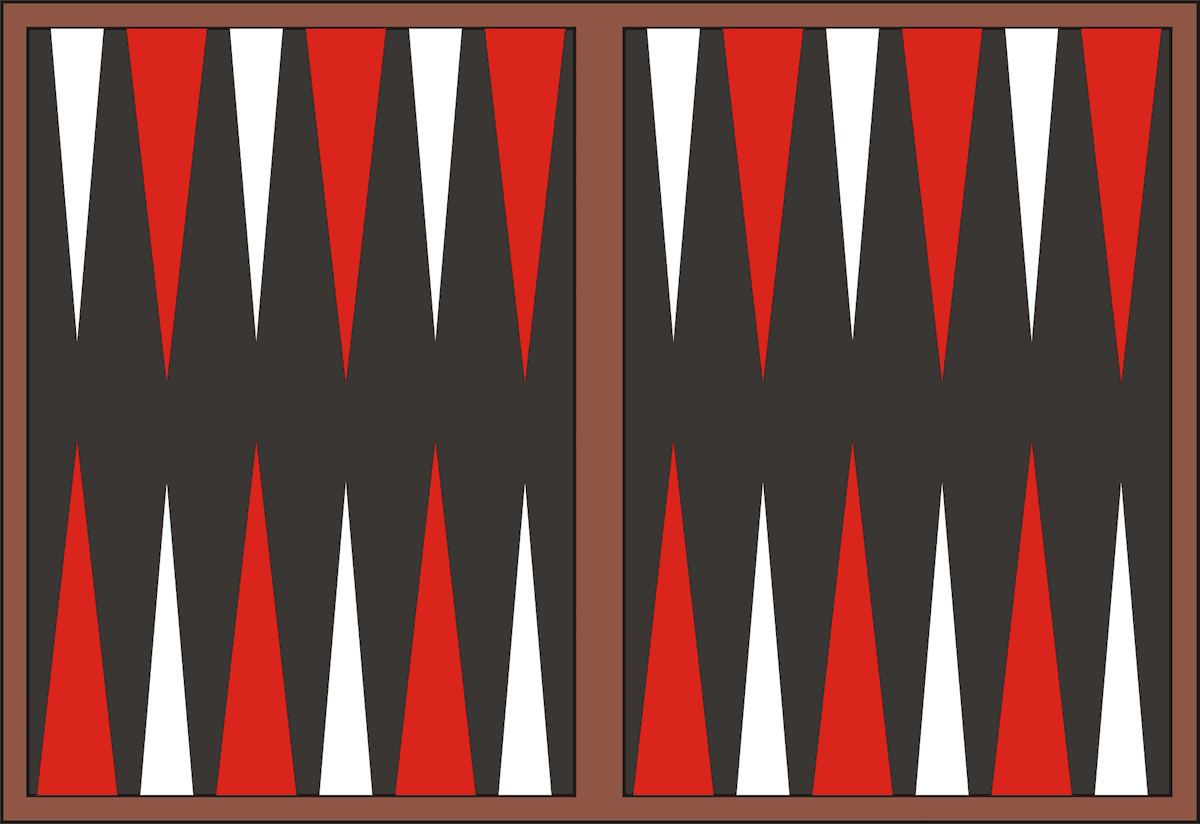
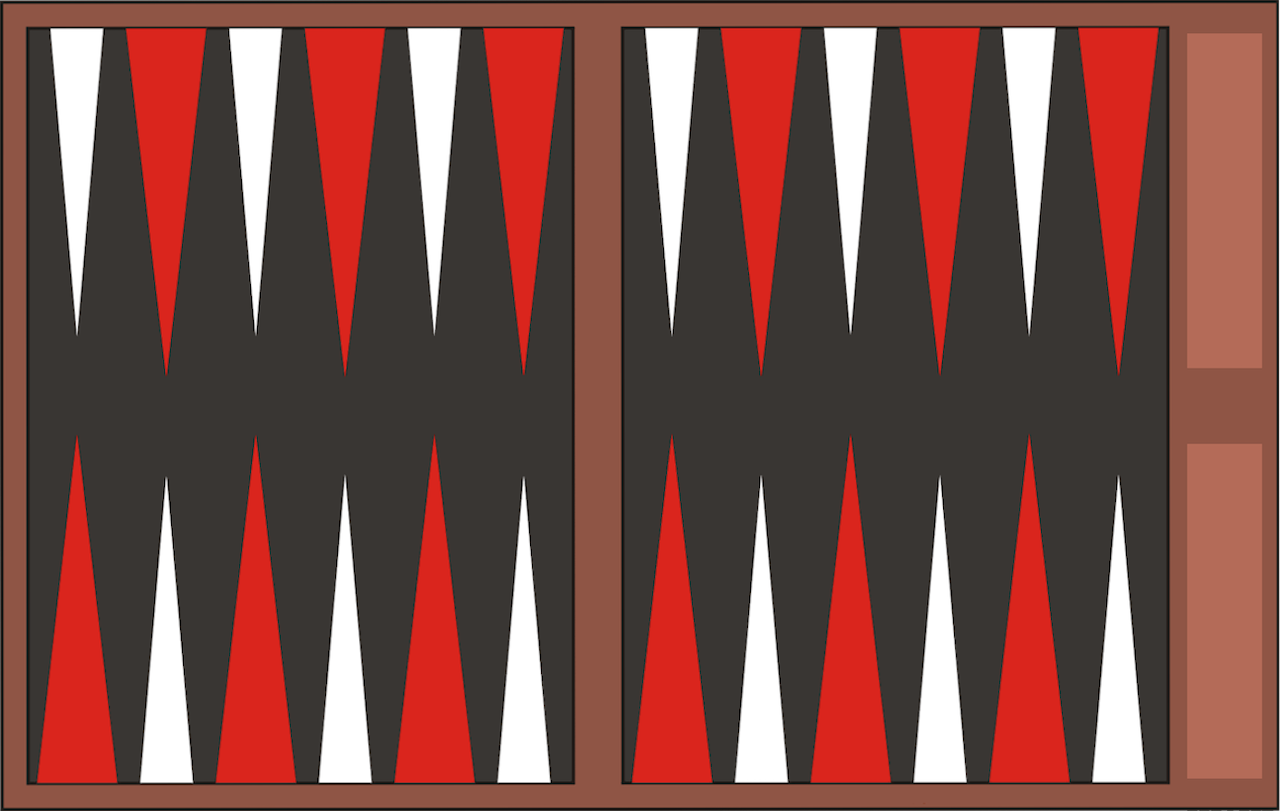
added a new board which has bearing off sections

diff --git a/BackEnd/Game.py b/BackEnd/Game.py
@@ -77,6 +77,7 @@ class Game:
                 print("State = Rolled and Action = Select")
 
             source = self.front_end.get_extras()['source']  # TODO this is not correct
+
             piece = self.board.pieces[source][-1]
             if piece.colour == self.turn:
                 if self.log:
@@ -99,8 +100,10 @@ class Game:
         if state == State.selected and action == Action.move:
             if self.log:
                 print("State = Selected and Action = Move")
+
             source = self.front_end.get_extras()['source']  # TODO this is not correct
             destination = self.front_end.get_extras()['destination']  # TODO this is not correct
+
             piece = self.board.pieces[source][-1]
             available_moves = self.board.get_available_moves(piece, self.current_die)
             if piece.colour == self.turn and destination in available_moves:

diff --git a/FrontEnd/GUI.py b/FrontEnd/GUI.py
@@ -24,7 +24,7 @@ class GUI:
 
     def __init__(self):
         pygame.init()
-        res = (1200, 824)
+        res = (1280, 824)
         ############# DONT NEED ##################
         self.entities = {}
         self.changed_entities = {}
